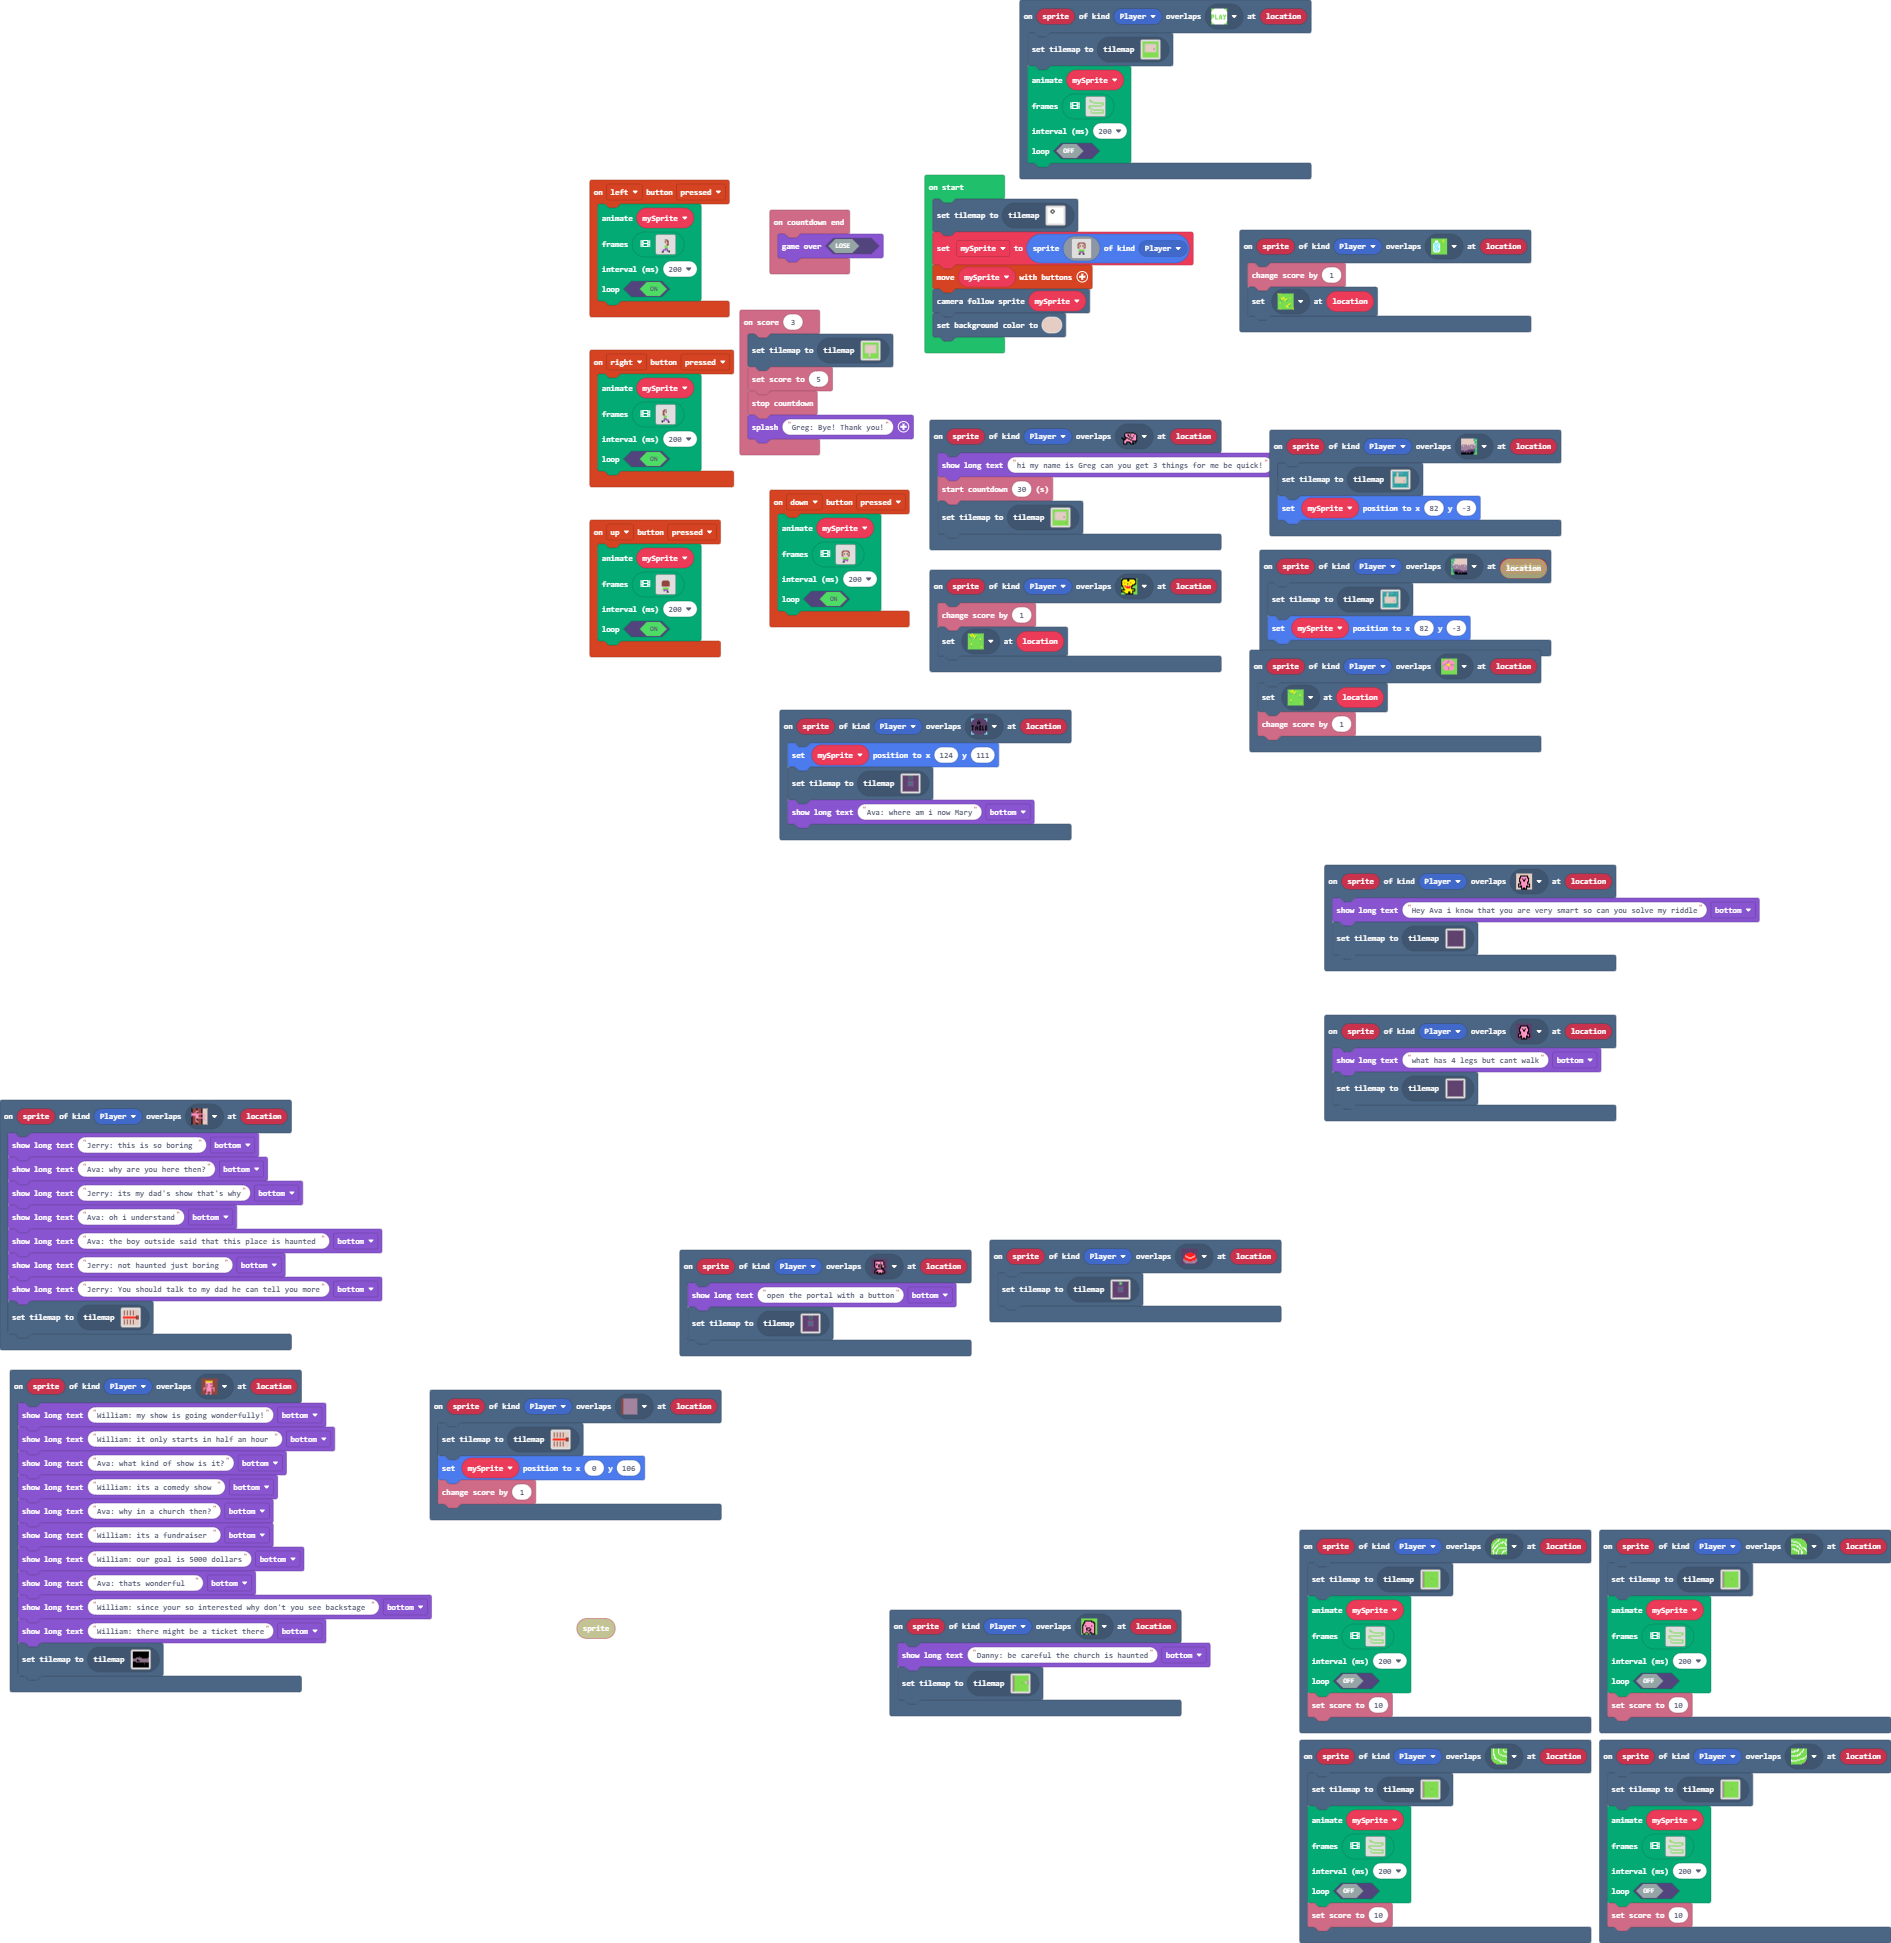
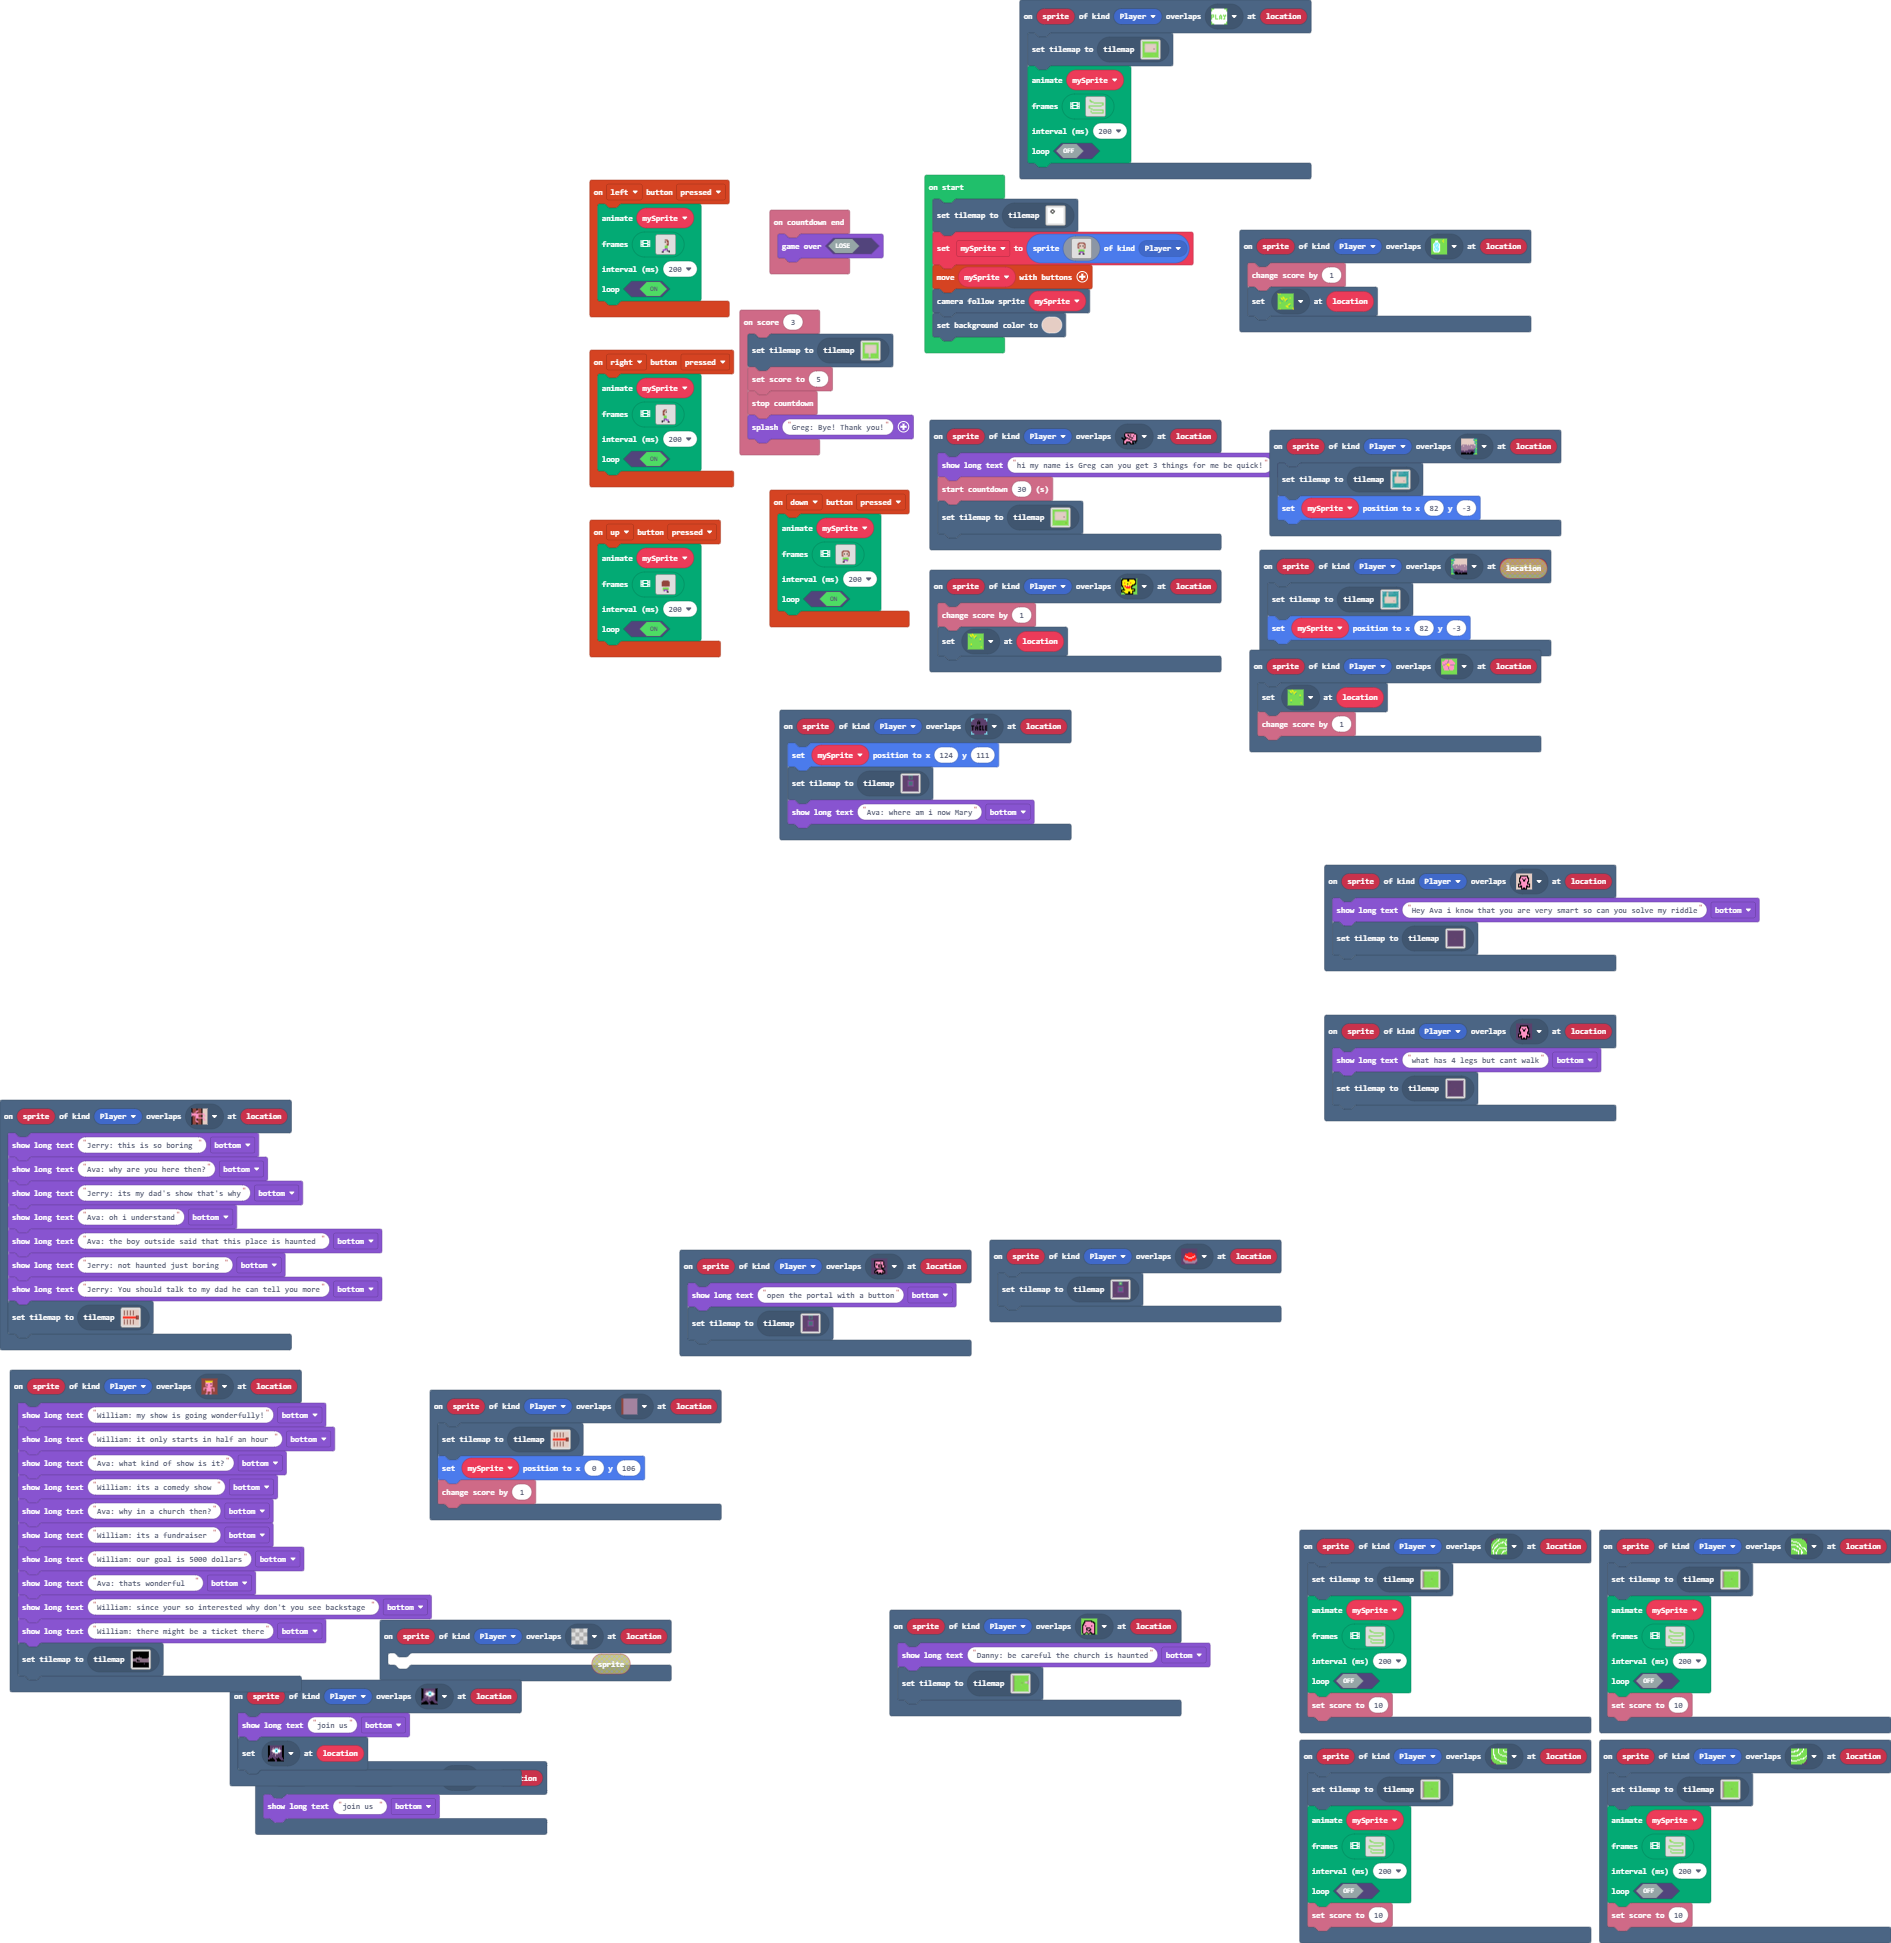
gidhub

Changed region(s): [[0.1248, 0.8338, 0.3744, 0.9573]]

diff --git a/tilemap.g.ts b/tilemap.g.ts
@@ -136,6 +136,10 @@ namespace myTiles {
     export const tile65 = image.ofBuffer(hex``);
     //% fixedInstance jres blockIdentity=images._tile
     export const tile67 = image.ofBuffer(hex``);
+    //% fixedInstance jres blockIdentity=images._tile
+    export const tile68 = image.ofBuffer(hex``);
+    //% fixedInstance jres blockIdentity=images._tile
+    export const tile69 = image.ofBuffer(hex``);
 
     helpers._registerFactory("tilemap", function(name: string) {
         switch(helpers.stringTrim(name)) {
@@ -824,7 +828,7 @@ namespace myTiles {
 . . . . . . . . . . . . . . . . 
 `, [myTiles.transparency16,myTiles.tile20,myTiles.tile21,myTiles.tile22,myTiles.tile53,myTiles.tile54], TileScale.Sixteen);
             case "level43":
[2 lines of base64/hex data omitted]
 . . . . . . . . . . . . . . . . 
 . . . . . . . . . . . . . . . . 
 . . . . . . . . . . . . . . . . 
@@ -841,7 +845,7 @@ namespace myTiles {
 . . . . . . . . . . . . . . . . 
 . . . . . . . . . . . . . . . . 
 . . . . . . . . . . . . . . . . 
-`, [myTiles.transparency16,myTiles.tile55,myTiles.tile56,myTiles.tile57,myTiles.tile58,myTiles.tile59,myTiles.tile60,myTiles.tile61,myTiles.tile62,myTiles.tile63,myTiles.tile64,myTiles.tile65,myTiles.tile66,myTiles.tile67], TileScale.Sixteen);
+`, [myTiles.transparency16,myTiles.tile55,myTiles.tile56,myTiles.tile57,myTiles.tile58,myTiles.tile59,myTiles.tile60,myTiles.tile61,myTiles.tile62,myTiles.tile63,myTiles.tile64,myTiles.tile65,myTiles.tile67,myTiles.tile69], TileScale.Sixteen);
         }
         return null;
     })
@@ -983,6 +987,10 @@ namespace myTiles {
             case "tile65":return tile65;
             case "myTile65":
             case "tile67":return tile67;
+            case "myTile66":
+            case "tile68":return tile68;
+            case "copy of tree stump 2":
+            case "tile69":return tile69;
         }
         return null;
     })

diff --git a/main.ts b/main.ts
@@ -59,6 +59,9 @@ scene.onOverlapTile(SpriteKind.Player, assets.tile`myTile45`, function (sprite, 
     game.showLongText("Jerry: You should talk to my dad he can tell you more", DialogLayout.Bottom)
     tiles.setCurrentTilemap(tilemap`level42`)
 })
+scene.onOverlapTile(SpriteKind.Player, assets.tile`myTile60`, function (sprite, location) {
+    game.showLongText("join us ", DialogLayout.Bottom)
+})
 scene.onOverlapTile(SpriteKind.Player, assets.tile`myTile34`, function (sprite, location) {
     tiles.setCurrentTilemap(tilemap`level35`)
     mySprite.setPosition(0, 106)
@@ -579,9 +582,16 @@ info.onScore(3, function () {
     info.stopCountdown()
     game.splash("Greg: Bye! Thank you!")
 })
+scene.onOverlapTile(SpriteKind.Player, assets.tile`myTile61`, function (sprite, location) {
+    game.showLongText("join us", DialogLayout.Bottom)
+    tiles.setTileAt(location, assets.tile`myTile66`)
+})
 scene.onOverlapTile(SpriteKind.Player, assets.tile`myTile10`, function (sprite, location) {
     game.showLongText("Hey Ava i know that you are very smart so can you solve my riddle", DialogLayout.Bottom)
     tiles.setCurrentTilemap(tilemap`level14`)
+})
+scene.onOverlapTile(SpriteKind.Player, assets.tile`transparency16`, function (sprite, location) {
+	
 })
 scene.onOverlapTile(SpriteKind.Player, assets.tile`myTile35`, function (sprite, location) {
     game.showLongText("William: my show is going wonderfully!", DialogLayout.Bottom)
